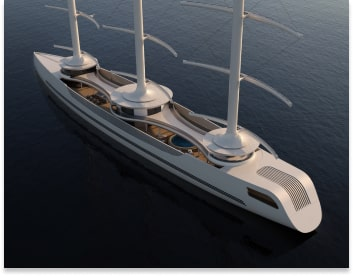
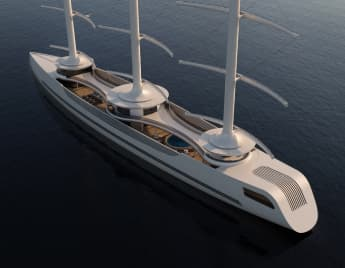
fix cards, img

diff --git a/src/partials/our-yachts.html b/src/partials/our-yachts.html
@@ -3,20 +3,22 @@
         <h2 class="our-yachts-title">Choose your dream yacht and sail away into the sunset</h2>
         <ul class="our-yachts-list">
             <li class="our-yachts-list-item">
-                <picture>
-                    <source
-                        srcset="/src/img/our-yachts/desktop-1280-our-yacht1.jpg 1x, /src/img/our-yachts/desktop-1280-our-yacht1@2x.jpg 2x"
-                        media="(min-width:1280px)">
-                    <source
-                        srcset="/src/img/our-yachts/tablet-our-yacht1.jpg 1x, /src/img/our-yachts/tablet-our-yacht1@2x.jpg 2x"
-                        media="(min-width:768px)">
-                    <source
-                        srcset="/src/img/our-yachts/mobile-our-yacht1.jpg 1x, /src/img/our-yachts/mobile-our-yacht1@2x.jpg 2x"
-                        media="(max-width:767px)">
-                    <img src="/src/img/our-yachts/mobile-our-yacht1.jpg" alt="1" class="our-yachts-list-image"
-                        width="302">
-                    <!-- alt="Our yacht "ARROW" -->
-                </picture>
+                <div class="our-yachts-img-box">
+                    <picture>
+                        <source srcset="
+                            /img/our-yachts/desktop-1280-our-yacht1.jpg 1x, 
+                            /img/our-yachts/desktop-1280-our-yacht1@2x.jpg 2x" media="(min-width:1280px)">
+                        <source srcset="
+                            /img/our-yachts/tablet-our-yacht1.jpg 1x, 
+                            /img/our-yachts/tablet-our-yacht1@2x.jpg 2x" media="(min-width:768px)">
+                        <source srcset="
+                            /img/our-yachts/mobile-our-yacht1.jpg 1x, 
+                            /img/our-yachts/mobile-our-yacht1@2x.jpg 2x" media="(max-width:767px)">
+                        <img src="
+                            /img/our-yachts/mobile-our-yacht1.jpg" alt="Our yacht ARROW" class="our-yachts-list-image"
+                            width="345">
+                    </picture>
+                </div>
                 <div class="our-yachts-item-name">
                     <p class="our-yachts-item-text">ARROW</p>
                     <p class="our-yachts-item-text">LUXURY YAHTS</p>
@@ -62,18 +64,19 @@
                     </div>
                 </div>
             </li>
-            <li class="our-yachts-list-item-second">
-                <picture>
-                    <source
-                        srcset="/src/img/our-yachts/desktop-1280-our-yacht2.jpg 1x, /src/img/our-yachts/desktop-1280-our-yacht2@2x.jpg 2x"
-                        media="(min-width:1280px)">
-                    <source
-                        srcset="/src/img/our-yachts/tablet-our-yacht2.jpg 1x, /src/img/our-yachts/tablet-our-yacht2@2x.jpg 2x"
-                        media="(min-width:768px)">
-                    <img src="/src/img/our-yachts/tablet-our-yacht2.jpg" alt="2" class="our-yachts-list-image-second"
-                        width="302">
-                    <!-- alt="Our yacht "BENETTI OASIS 40M BO122" -->
-                </picture>
+            <li class="our-yachts-list-item">
+                <div class="our-yachts-img-box">
+                    <picture>
+                        <source
+                            srcset="/img/our-yachts/desktop-1280-our-yacht2.jpg 1x, /img/our-yachts/desktop-1280-our-yacht2@2x.jpg 2x"
+                            media="(min-width:1280px)">
+                        <source
+                            srcset="/img/our-yachts/tablet-our-yacht2.jpg 1x, /img/our-yachts/tablet-our-yacht2@2x.jpg 2x"
+                            media="(min-width:768px)">
+                        <img src="/img/our-yachts/tablet-our-yacht2.jpg" alt="Our yacht BENETTI OASIS 40M BO122"
+                            class="our-yachts-list-image" width="345">
+                    </picture>
+                </div>
                 <div class="our-yachts-item-name-second">
                     <p class="our-yachts-item-text-second">BENETTI OASIS 40M BO122</p>
                     <p class="our-yachts-item-text-second">LUXURY YAHTS</p>
@@ -119,15 +122,16 @@
                     </div>
                 </div>
             </li>
-            <li class="our-yachts-list-item-third">
-                <picture>
-                    <source
-                        srcset="/src/img/our-yachts/desktop-1280-our-yacht3.jpg 1x, /src/img/our-yachts/desktop-1280-our-yacht3@2x.jpg 2x"
-                        media="(min-width:1280px)">
-                    <img src="/src/img/our-yachts/desktop-1280-our-yacht3.jpg" alt="3"
-                        class="our-yachts-list-image-third" width="302">
-                    <!-- alt="Our yacht "BELLE ANNA"" -->
-                </picture>
+            <li class="our-yachts-list-item">
+                <div class="our-yachts-img-box">
+                    <picture>
+                        <source
+                            srcset="/img/our-yachts/desktop-1280-our-yacht3.jpg 1x, /img/our-yachts/desktop-1280-our-yacht3@2x.jpg 2x"
+                            media="(min-width:1280px)">
+                        <img src="/img/our-yachts/desktop-1280-our-yacht3.jpg" alt="Our yacht BELLE ANNA"
+                            class="our-yachts-list-image" width="345">
+                    </picture>
+                </div>
                 <div class="our-yachts-item-name-third">
                     <p class="our-yachts-item-text-third">BELLE ANNA</p>
                     <p class="our-yachts-item-text-third">LUXURY YAHTS</p>

diff --git a/src/css/our-yachts.css b/src/css/our-yachts.css
@@ -20,18 +20,17 @@
 .our-yachts-list-item {
     background-color: #fbfbfb;
     border-radius: 24px;
+    padding: 16px 16px 32px 16px;
 }
 
-.our-yachts-list-item-second,
-.our-yachts-list-item-third {
+.our-yachts-list-item:nth-child(2),
+.our-yachts-list-item:nth-child(3) {
     display: none;
-} 
+}
 
-.our-yachts-list-image {
+.our-yachts-img-box {
     border-radius: 24px;
-    margin-left: auto;
-    margin-right: auto;
-    padding-top: 16px;
+    overflow: hidden;
 }
 
 .our-yachts-item-name {
@@ -41,14 +40,14 @@
     gap: 125px;
     position: relative;
     margin-bottom: 16px;
-    padding: 32px 32px 16px 32px;
+    padding: 32px 16px 16px 16px;
 }
 
 .our-yachts-item-name::after {
     content: "";
     position: absolute;
     bottom: 0; 
-    left: 32px;
+    left: 16px;
     width: 272px; 
     height: 1px; 
     background-color: rgba(4, 3, 6, 0.1); 
@@ -77,7 +76,7 @@
     align-items: flex-start;
     justify-content: flex-start;
     gap: 114px;
-    padding: 0 32px 32px 32px;
+    padding: 0 16px 0 16px;
 }
 
 .our-yachts-item-property {
@@ -142,14 +141,6 @@
     .our-yachts {
         padding: 75px 0;
     }
-    /* .container {
-        width: 768px;
-        padding: 0 32px;
-    }
-     */
-    .our-yachts-list-item:nth-child(2) {
-        display: list-item;
-    }
 
     .our-yachts-title {
         font-size: 48px;
@@ -184,17 +175,8 @@
         gap: 116px;
     }
 
-    .our-yachts-list-item-second {
+    .our-yachts-list-item:nth-child(2) {
         display: list-item;
-        background-color: #fbfbfb;
-        border-radius: 24px;
-    }
-
-    .our-yachts-list-image-second {
-        border-radius: 24px;
-        margin-left: auto;
-        margin-right: auto;
-        padding-top: 16px;
     }
 
     .our-yachts-item-name-second {
@@ -204,14 +186,14 @@
         gap: 22px;
         position: relative;
         margin-bottom: 16px;
-        padding: 32px 32px 16px 32px;
+        padding: 32px 16px 16px 16px;
     }
 
     .our-yachts-item-name-second::after {
         content: "";
         position: absolute;
         bottom: 0;
-        left: 32px;
+        left: 16px;
         width: 272px;
         height: 1px;
         background-color: rgba(4, 3, 6, 0.1);
@@ -249,7 +231,7 @@
         justify-content: flex-start;
         flex-direction: row;
         gap: 104px;
-        padding: 0 32px 32px 32px;
+        padding: 0 16px 0 16px;
     }
 
     .our-yachts-item-property-second {
@@ -300,9 +282,7 @@
     }
 
     .our-yachts-title {
-        font-size: 48px;
         padding: 0 233px 0 234px;
-        margin-bottom: 75px;
     }
 
     .our-yachts-list {
@@ -337,17 +317,8 @@
         gap: 145px;
     }
 
-    .our-yachts-list-item-third {
+    .our-yachts-list-item:nth-child(3) {
         display: list-item;
-        background-color: #fbfbfb;
-        border-radius: 24px;
-    }
-
-    .our-yachts-list-image-third {
-        border-radius: 24px;
-        margin-left: auto;
-        margin-right: auto;
-        padding-top: 16px;
     }
 
     .our-yachts-item-name-third {
@@ -357,14 +328,14 @@
         gap: 118px;
         position: relative;
         margin-bottom: 16px;
-        padding: 32px 32px 16px 32px;
+        padding: 32px 16px 16px 16px;;
     }
 
     .our-yachts-item-name-third::after {
         content: "";
         position: absolute;
         bottom: 0;
-        left: 32px;
+        left: 16px;
         width: 313px;
         height: 1px;
         background-color: rgba(4, 3, 6, 0.1);
@@ -396,7 +367,7 @@
         justify-content: flex-start;
         flex-direction: row;
         gap: 145px;
-        padding: 0 32px 32px 32px;
+        padding: 0 16px 0 16px;
     }
 
     .our-yachts-item-property-third {
